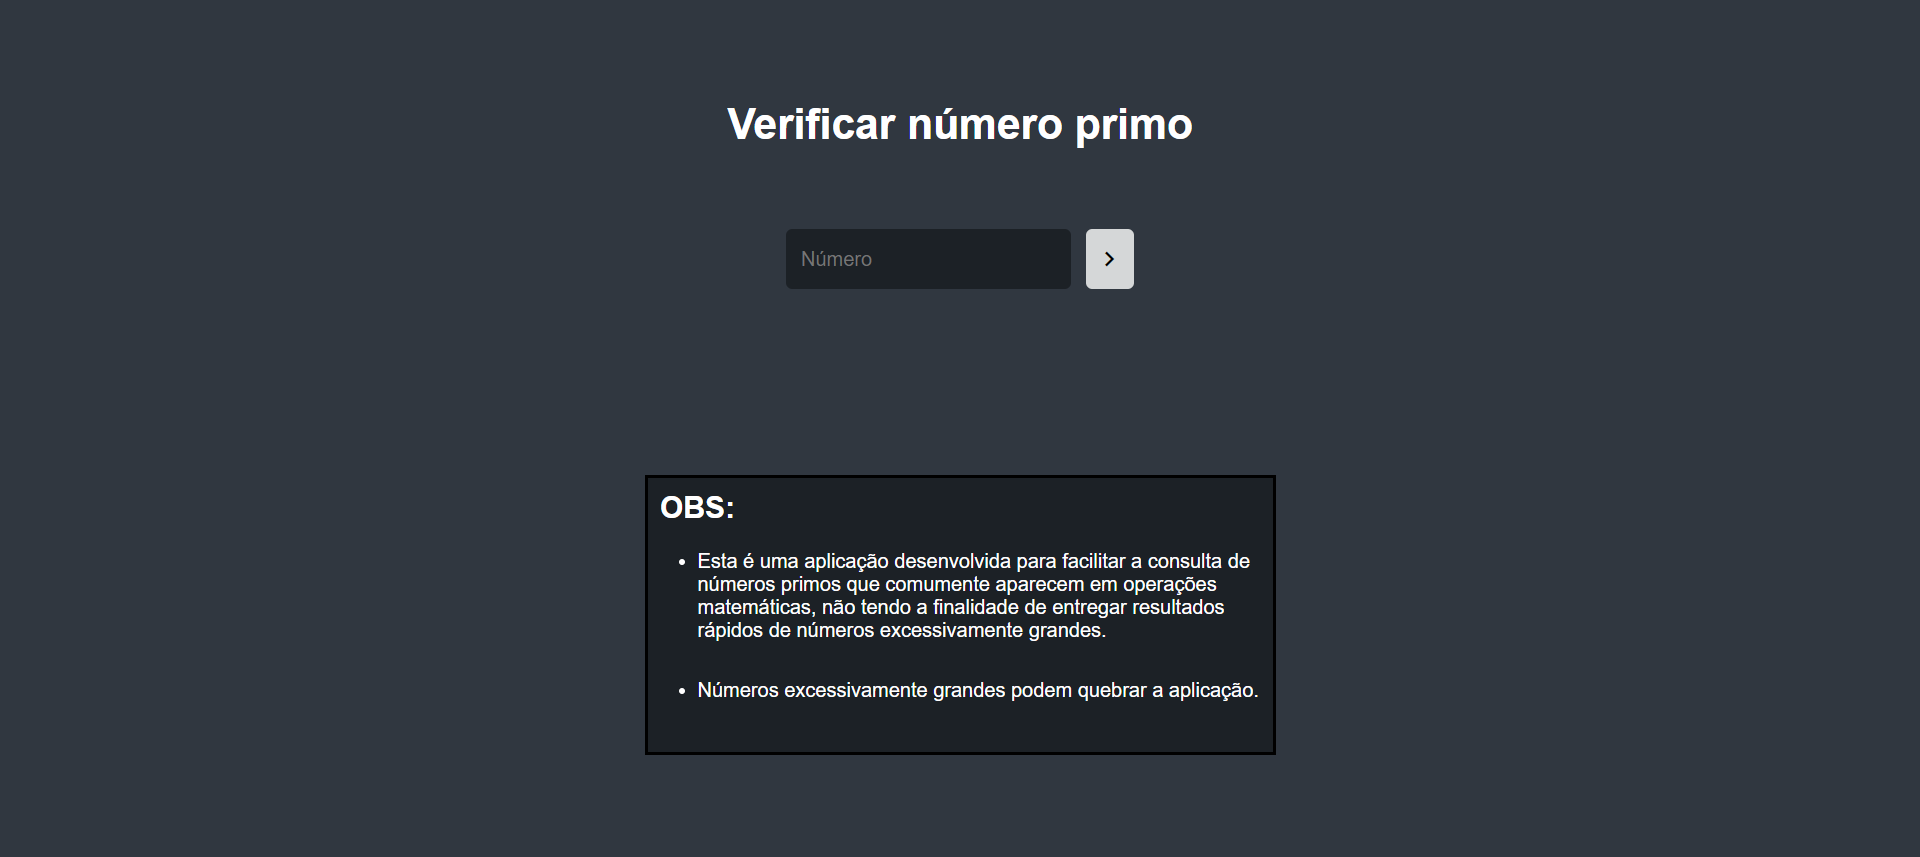
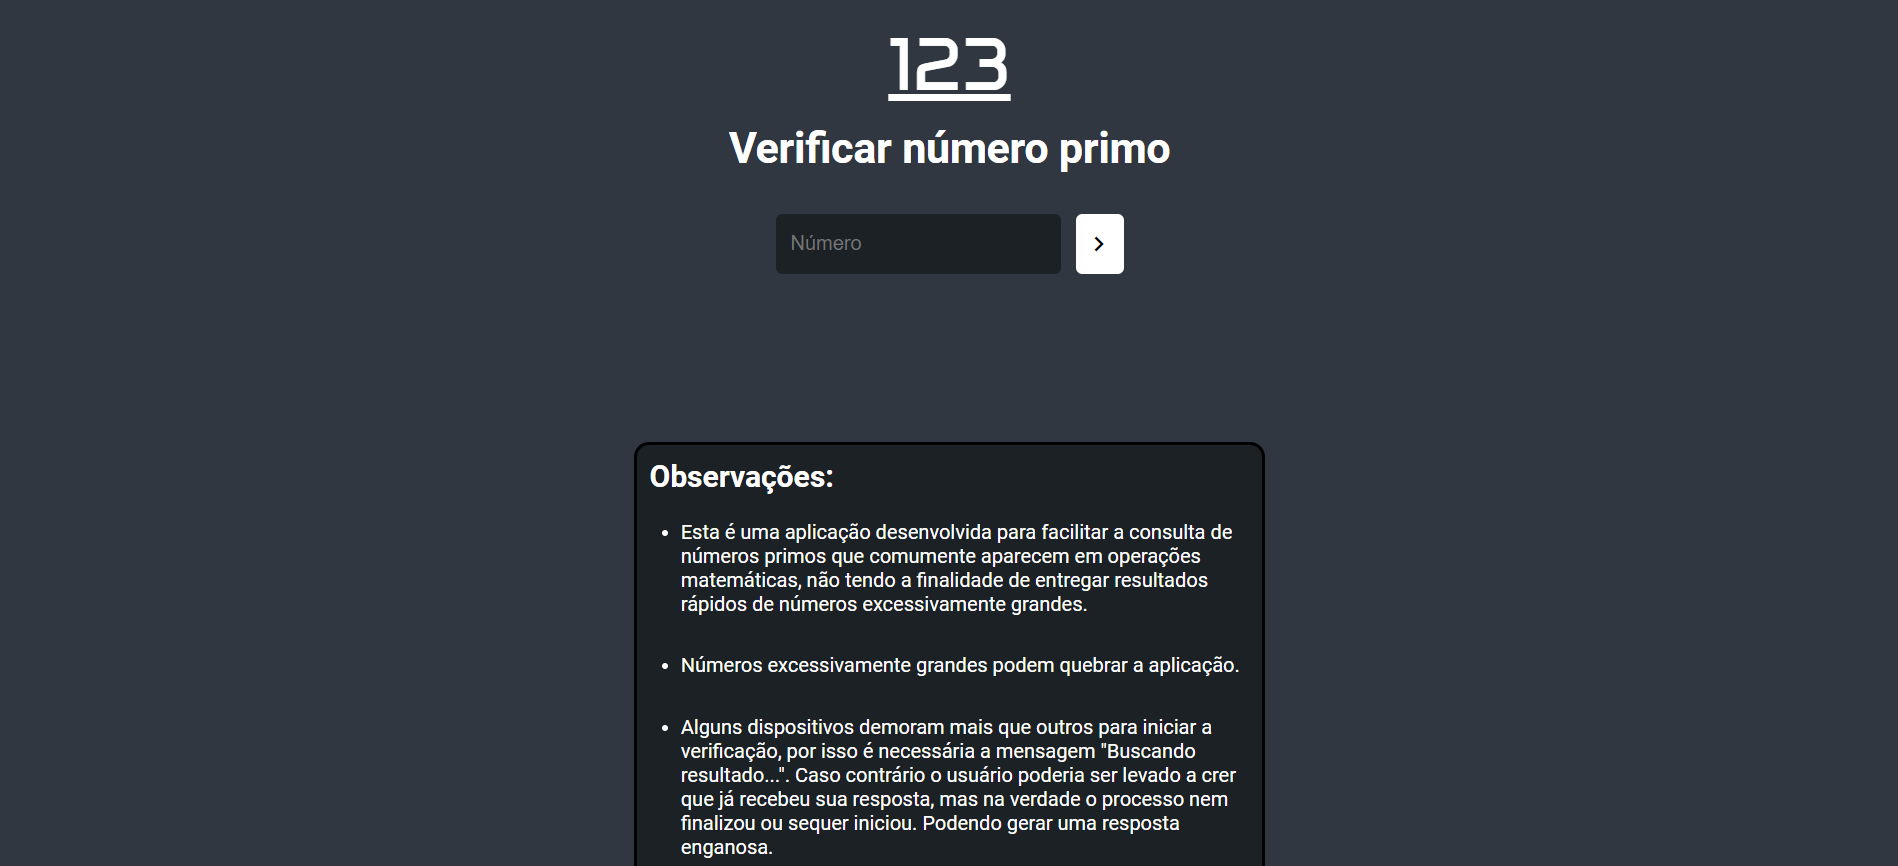
:lipstick: set h1 margin and change README example image

Changed region(s): [[0.3109, 0.4854, 0.6839, 1.0], [0.373, 0.0303, 0.6217, 0.2124], [0.4041, 0.2427, 0.5906, 0.3641]]

diff --git a/style.css b/style.css
@@ -48,7 +48,7 @@ body {
 
 #app > h1 {
     font-size: 3.4rem;
-    margin: 0;
+    margin: 0 1rem;
     text-align: center;
 }
 
